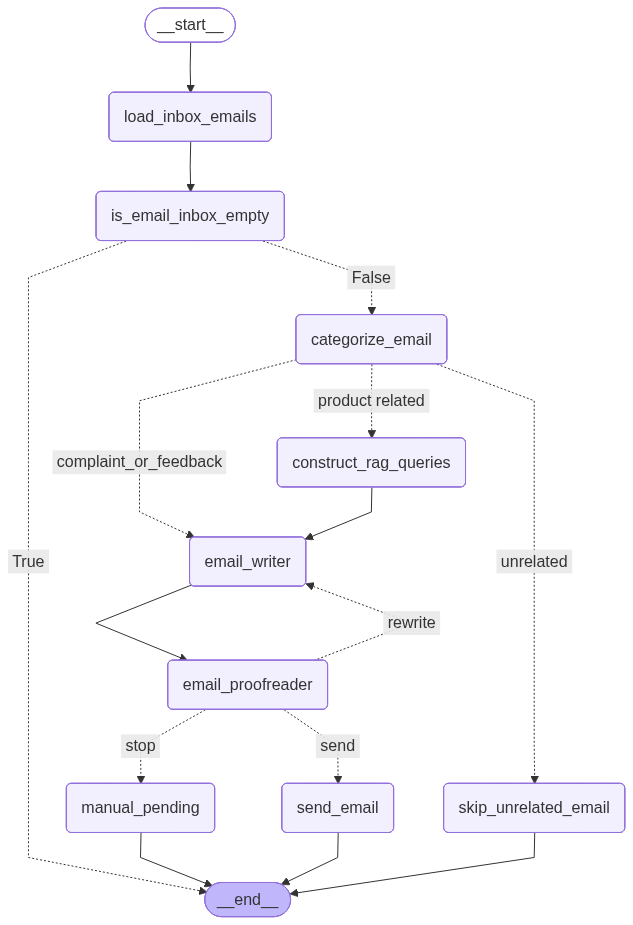
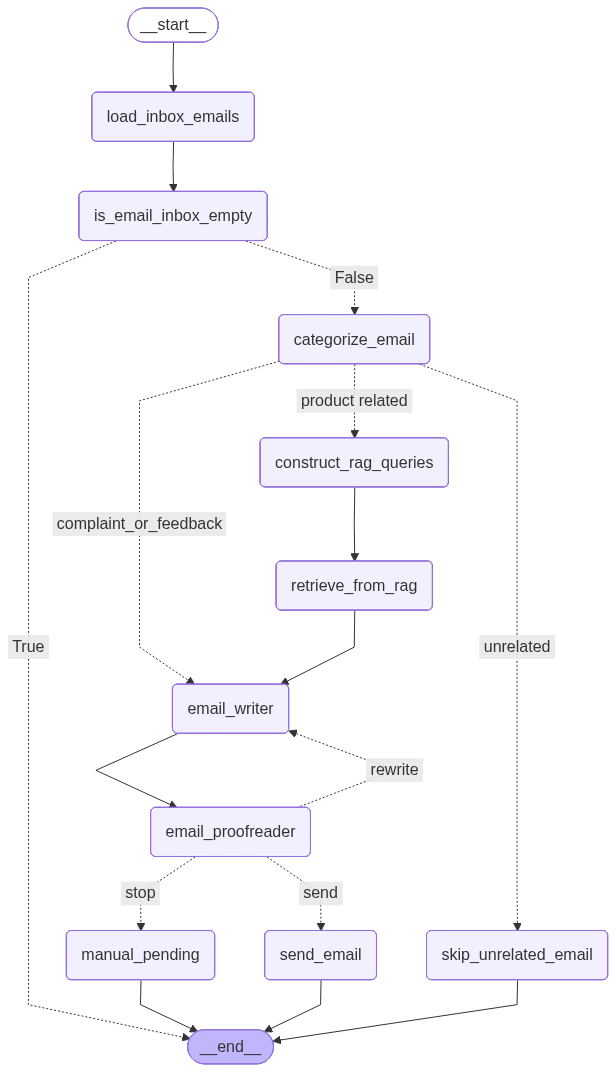
[debug] 修复rag格式化输出失败问题

diff --git a/src/nodes.py b/src/nodes.py
@@ -166,15 +166,30 @@ class Nodes:
             queries=rag_queries
         )
         # 3. 合并检索结果
-        all_results = self.rag_engine.merge_and_rerank(
+        merged_results = self.rag_engine.merge_and_rerank(
             direct_results=direct_results,
             hyde_results=hyde_results,
         )
         
+        # 4. 生成最终答案
+        retrieved_str = ""
+        retrieval_details = []  # 存储详细信息（用于调试）
+        if merged_results:
+            retrieved_str += f"找到 {len(merged_results)} 个相关参考信息：\n\n"
+            for idx, doc in enumerate(merged_results, 1):
+                # 只保留来源和内容（HyDE检索时补充匹配的问题）
+                source = doc.get("source", "未知来源")
+                content = doc.get("content", "无内容")
+                matching_question = doc.get("matching_question", "")  # 仅HyDE有
+                
+                # 简化格式
+                retrieved_str += f"{idx}. 来源：{source}\n"
+                if matching_question:  # 若有匹配问题，简要说明
+                    retrieved_str += f"（相关问题：{matching_question}）\n"
+                retrieved_str += f"内容：{content}\n\n"
+        else:
+            retrieved_str = "未找到相关参考信息"
 
-        final_answer = ""
-        for query in state["rag_queries"]:
-            rag_result = self.agents.generate_rag_answer.invoke(query)
-            final_answer += query + "\n" + rag_result + "\n\n"
+        print(Fore.MAGENTA + f"\n\nnodes info: RAG 检索结果：\n{retrieved_str}\n\n" + Style.RESET_ALL)
         
-        return {"retrieved_documents": final_answer}
+        return {"retrieved_documents": retrieved_str}

diff --git a/main.py b/main.py
@@ -26,6 +26,15 @@ print(f"EMAIL_PASSWORD: {os.getenv('EMAIL_PASSWORD')}")
 print(f"EMAIL_DELAY_HOURS: {os.getenv('EMAIL_DELAY_HOURS')}")
 print(f"IMAP_HOST: {os.getenv('IMAP_HOST')}")
 print(f"IMAP_PORT: {os.getenv('IMAP_PORT')}")
+print(f"REDIS_HOST: {os.getenv('REDIS_HOST')}")
+print(f"REDIS_PORT: {os.getenv('REDIS_PORT')}")
+print(f"REDIS_DB: {os.getenv('REDIS_DB')}")
+print(f"REDIS_PASSWORD: {os.getenv('REDIS_PASSWORD')}")
+print(f"MYSQL_HOST: {os.getenv('MYSQL_HOST')}")
+print(f"MYSQL_PORT: {os.getenv('MYSQL_PORT')}")
+print(f"MYSQL_USER: {os.getenv('MYSQL_USER')}")
+print(f"MYSQL_PASSWORD: {os.getenv('MYSQL_PASSWORD')}")
+print(f"MYSQL_DB_NAME: {os.getenv('MYSQL_DB_NAME')}")
 
 print(f"=============================================================================")
 print(f"=============================================================================")
@@ -73,7 +82,7 @@ def main():
             port=int(os.getenv("MYSQL_PORT", 3306)),    # 默认 MySQL 端口
             user=os.getenv("MYSQL_USER", "root"),       # 你的 MySQL 用户名
             password=os.getenv("MYSQL_PASSWORD", ""),   # 你的 MySQL 密码
-            db_name="rag_hyde"                          # 目标数据库（已创建的 rag_hyde）
+            db_name=os.getenv("MYSQL_DB_NAME", "rag_hyde")                          # 目标数据库（已创建的 rag_hyde）
         )
     
     rag_engine = RAGEngine(

diff --git a/src/prompts_zh.py b/src/prompts_zh.py
@@ -45,14 +45,17 @@ GENERATE_RAG_QUERIES_PROMPT = """
 ---
 
 **邮件内容:**
-{email}
+{email_content}
 
 ---
 
-**输出要求:**
-1. 仅返回生成的检索查询词，无需额外解释、说明或格式标注（如“查询词1：”等前缀）；
-2. 每个查询词单独占一行，换行符分隔；
-3. 语言简洁专业，符合内部知识库的检索语义习惯（避免口语化表述，例：不用“软件为啥卡”，而用“AI运动软件使用时卡顿的解决方案”）。
+**输出要求（**必须严格遵守**）：**
+1. **严格以 JSON 格式返回**，JSON 必须包含字段 `"queries"`，其值为字符串数组（最多 3 个元素）。  
+2. **不要添加任何额外说明、注释或多余文本**，只返回纯净的 JSON 字符串。  
+3. 为了兼容模型的结构化输出检查，请在说明中明确出现单词 `JSON` 或 `json`（如本提示所示）。
+
+**输出示例：**
+{{"queries": ["AI运动软件卡顿的常见原因与解决方案", "如何集成第三方心率数据到 AI 运动软件", "API 接口鉴权失败的排查步骤"]}}
 """
 
 

diff --git a/src/utils/database.py b/src/utils/database.py
@@ -12,14 +12,14 @@ class MySQLManager:
         user: str,
         port: int,
         password: str = "",
-        database: str = "rag_hyde",
+        db_name: str = "rag_hyde",
     ):
         """初始化MySQL连接管理器"""
         self.host = host
         self.user = user
         self.port = port
         self.password = password
-        self.database = database
+        self.db_name = db_name
         self.conn: Optional[MySQLConnection] = None
         self._init_connection()
         self._init_tables()  # 确保表结构存在
@@ -32,10 +32,10 @@ class MySQLManager:
                 user=self.user,
                 port=self.port,
                 password=self.password,
-                database=self.database
+                database=self.db_name,
             )
             if self.conn.is_connected():
-                print(f"成功连接到MySQL数据库: {self.database}")
+                print(f"成功连接到MySQL数据库: {self.db_name}")
         except Exception as e:
             print(f"MySQL连接失败: {str(e)}")
             raise

diff --git a/src/rag.py b/src/rag.py
@@ -257,10 +257,11 @@ class RAGEngine:
         self, 
         direct_results: List[Dict], 
         hyde_results: List[Dict], 
-        query: str,
+        query: str = "",
         top_n: int = 8,
         score_threshold: float = 0.5
     ) -> List[Dict]:
+        # 暂时仅仅合并，不进行 rerank
         """合并 direct + HyDE 检索结果，并去重 + 排序"""
         chunk_map = {}
         for result in direct_results + hyde_results:

diff --git a/src/schema_outputs.py b/src/schema_outputs.py
@@ -40,10 +40,3 @@ class EmailProofreaderOutput(BaseModel):
         description="Indicates whether the email is sendable (true) or not (false)."
     )
 
-
-
-class RAGQueriesOutput(BaseModel):
-    queries: List[str] = Field(
-        ..., 
-        description="A list of up to three questions representing the customer's intent, based on their email."
-    )
